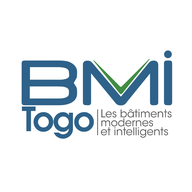
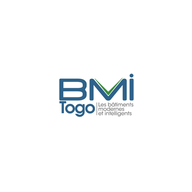
v2.99.87 : icône d'application avec marge de sécurité, pour un rendu rond correct sur PC et mobile

Changed region(s): [[0.0938, 0.25, 0.9062, 0.75]]

diff --git a/src/screens/Ventes.jsx b/src/screens/Ventes.jsx
@@ -45,6 +45,12 @@ export function Ventes({ db, save, profile, preRempli, onPreRempliConsomme, onTr
   const [cat, setCat] = useState("");
   const [sel, setSel] = useState({ produit_id: "", qte: "", pu: "", remF: "", remP: "" });
   const [panier, setPanier] = useState(() => preRempli?.panier || []);
+  // ⚠ Demande Timo, après correction du parcours : une demande de transfert
+  // NE VIDE PLUS le panier — le vendeur reclique sur "Encaisser la vente"
+  // (même panier) une fois l'autre boutique prévenue par téléphone. Ce suivi
+  // permet à encaisserVente() de retrouver la demande envoyée et vérifier
+  // son statut à chaque nouvelle tentative, sans jamais la renvoyer en double.
+  const [transfertEnAttente, setTransfertEnAttente] = useState(null); // { id, dest }
   // ATTENTION : preRempli est vidé dès l'affichage. On garde donc l'origine du
   // devis dans l'état local, sinon elle serait perdue avant l'encaissement.
   const [origineDevis, setOrigineDevis] = useState(() => preRempli?.origineDevis || null);
@@ -291,6 +297,31 @@ export function Ventes({ db, save, profile, preRempli, onPreRempliConsomme, onTr
         return p && Number(l.qte) > stockActuel(db, p);
       });
     }
+    // ⚠ Une demande de transfert a déjà été envoyée pour CE panier — on
+    // vérifie son statut ACTUEL avant toute chose, plutôt que de reproposer
+    // le choix depuis zéro. Le stock étant réellement déplacé dès que
+    // l'autre boutique valide (voir servirDemandeTransfert, Ravitaillement.jsx),
+    // un simple nouveau calcul de "manquants" suffit à détecter que c'est bon.
+    if (manquants.length > 0 && transfertEnAttente) {
+      const boutiqueDest = db.boutiques.find((b) => b.nom === transfertEnAttente.dest);
+      const demandeActuelle = (boutiqueDest?.demandes || []).find((d) => d.id === transfertEnAttente.id);
+      if (demandeActuelle?.statut === "en_attente") {
+        uAlert(`⏳ ${transfertEnAttente.dest} n'a pas encore validé ce transfert.\n\nRéessayez dans quelques instants — pas besoin de tout ressaisir, le panier reste tel quel.`);
+        return;
+      }
+      if (demandeActuelle?.statut === "refusee") {
+        uAlert(`❌ ${transfertEnAttente.dest} a refusé ce transfert${demandeActuelle.motif ? ` : ${demandeActuelle.motif}` : ""}.\n\nCliquez à nouveau sur "Encaisser la vente" pour choisir une autre solution.`);
+        setTransfertEnAttente(null);
+        return;
+      }
+      // statut === "servie" : le stock a été transféré — on efface le suivi
+      // et on recalcule, ça doit désormais passer normalement.
+      setTransfertEnAttente(null);
+      manquants = panier.filter((l) => {
+        const p = produits.find((x) => x.id === l.produit_id);
+        return p && Number(l.qte) > stockActuel(db, p);
+      });
+    }
     let creerCommeReservation = nonLivreCredit;
     if (manquants.length > 0 && !origineDevis) {
       const noms = manquants.map((l) => `${l.qte}× ${l.article}`).join(", ");
@@ -346,9 +377,13 @@ export function Ventes({ db, save, profile, preRempli, onPreRempliConsomme, onTr
         const demandeT = { id: uid(), type: "transfert", demandeur: boutique, date: today(), par: profile.nom, lignes: lignesDemande, note: `Demandé depuis Ventes par ${boutique} — client ${f.client || "non renseigné"}${f.tel ? ` (${f.tel})` : ""} en attente pour finaliser sa vente.`, statut: "en_attente" };
         save({ ...db, boutiques: db.boutiques.map((b) => (b.nom === dest ? { ...b, demandes: [...demandesDe(b), demandeT] } : b)) },
           `Demande de transfert de ${boutique} vers ${dest} (depuis Ventes, ${lignesDemande.length} article(s)) — pour ${f.client || "client non renseigné"}`);
-        setPanier([]);
+        // ⚠ Le panier reste rempli — le vendeur appelle l'autre boutique par
+        // téléphone (comme dans la vraie vie) et reclique "Encaisser la
+        // vente" une fois prévenu que c'est validé. Pas de réservation
+        // séparée, pas de reprise ailleurs : le même geste, juste répété.
+        setTransfertEnAttente({ id: demandeT.id, dest });
         setMsg("");
-        uAlert(`✅ Demande de transfert envoyée à ${dest}. Revenez encaisser cette vente une fois le stock arrivé.`);
+        uAlert(`✅ Demande envoyée à ${dest}.\n\nLe panier reste tel quel — dès qu'${dest} aura validé, recliquez sur "Encaisser la vente" pour finaliser normalement.`);
         return;
       } else {
         setMsg(`Stock insuffisant pour : ${noms}.`);
@@ -543,6 +578,7 @@ export function Ventes({ db, save, profile, preRempli, onPreRempliConsomme, onTr
       uAlert("✅ Devis encaissé.\n\nUne fiche d'installation a été créée automatiquement. L'administrateur ou le responsable commercial va programmer la date et l'équipe.");
     }
     setPanier([]);
+    setTransfertEnAttente(null);
     setF({ client: "", tel: "", remise: "", paiement: PAIEMENTS[0], avance: "", commercial: profile.role === "commercial" ? profile.nom : "", rabais: "" });
     setExt({ actif: false, nom: "", tel: "", taux: "", montant: "" });
     setCat("");

diff --git a/src/lib/constants.js b/src/lib/constants.js
@@ -38,7 +38,7 @@ export const SEED = {
 // Version affichée dans l'application, à côté du nom.
 // Elle permet de vérifier d'un coup d'œil QUELLE version tourne réellement
 // après un déploiement — sans avoir à deviner.
-export const VERSION = "2.99.85";
+export const VERSION = "2.99.87";
 
 export const PAIEMENTS = ["Espèces", "Mobile Money (Flooz)", "Mobile Money (Mixx/T-Money)", "Virement bancaire", "Crédit (dette)"];
 export const CATEGORIES = ["Loyer", "Électricité / Eau", "Salaires", "Commissions", "Prime d'installation", "Cotisations CNSS", "Transport", "Achat marchandises", "Communication", "Impôts / Taxes", "Prêt au personnel", "Autre"];
